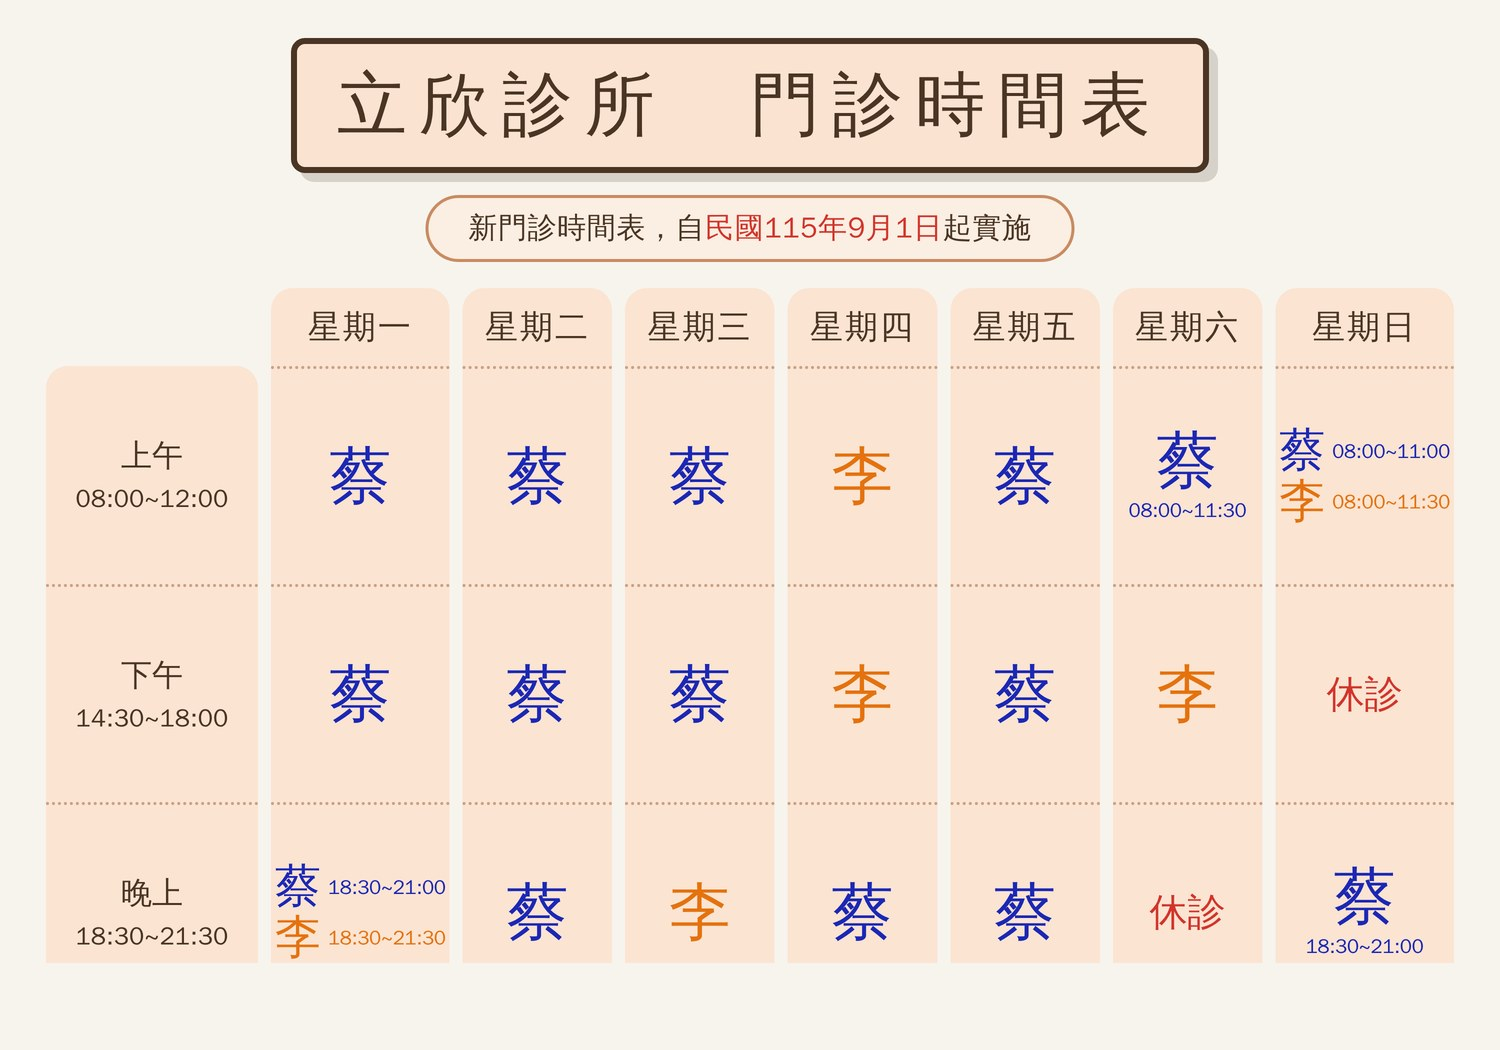
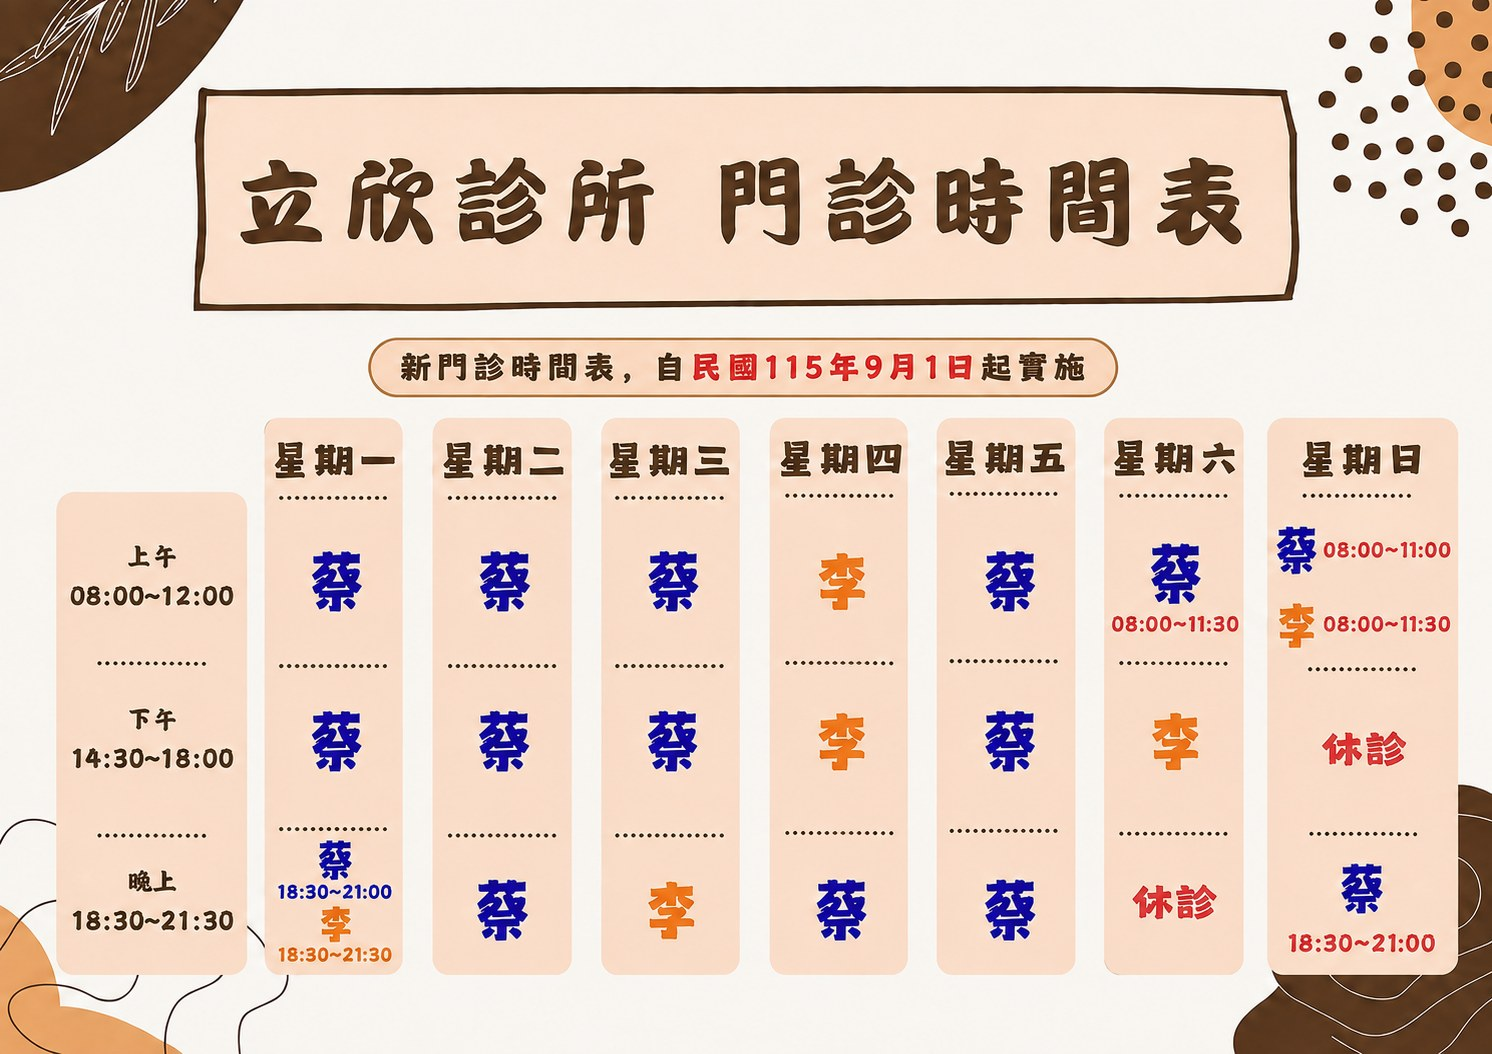
Use the original schedule poster instead of the rebuilt one
The uploaded artwork was on disk all along under /root/.claude/uploads/,
the path make_infographic.py already documents. Re-encode the 1492x1054
original to webp/jpg and drop the headless-Chromium rebuild.

Also correct the intrinsic size attributes on both <img> tags and record
in internal/00 where chat uploads land, so the next session does not
detour through Canva (design.canva.ai and media.canva.com are blocked by
the egress policy, and the matching design is not exportable).

Validator: 66 files, 0 errors / 0 warnings. sync_schedule.py --check exit 0.
Playwright at 390/1280px: 0px horizontal scroll.

Claude-Session: https://claude.ai/code/session_01LWpUgQvw2wjekoBVjTT1vt

diff --git a/index.html b/index.html
@@ -2386,7 +2386,7 @@
  <button type="button" id="clinic-notice-zoom" aria-label="放大檢視門診異動公告圖" class="block w-full rounded-3xl overflow-hidden shadow-md hover:shadow-lg border border-gray-100 hover:border-[#A8C69F] transition-all duration-300 bg-white" style="padding:0;cursor:zoom-in;">
  <picture>
  <source type="image/webp" srcset="/images/notice/clinic-notice-20260901.webp">
- <img src="/images/notice/clinic-notice-20260901.jpg" width="1500" height="1050" loading="lazy" decoding="async" alt="立欣診所新門診時間表，自民國115年9月1日起實施。上午08:00~12:00：星期一、二、三蔡醫師，星期四李醫師，星期五蔡醫師，星期六蔡醫師08:00~11:30，星期日蔡醫師08:00~11:00與李醫師08:00~11:30。下午14:30~18:00：星期一、二、三蔡醫師，星期四李醫師，星期五蔡醫師，星期六李醫師，星期日休診。晚上18:30~21:30：星期一蔡醫師18:30~21:00與李醫師18:30~21:30，星期二蔡醫師，星期三李醫師，星期四蔡醫師，星期五蔡醫師，星期六休診，星期日蔡醫師18:30~21:00。" class="w-full h-auto">
+ <img src="/images/notice/clinic-notice-20260901.jpg" width="1492" height="1054" loading="lazy" decoding="async" alt="立欣診所新門診時間表，自民國115年9月1日起實施。上午08:00~12:00：星期一、二、三蔡醫師，星期四李醫師，星期五蔡醫師，星期六蔡醫師08:00~11:30，星期日蔡醫師08:00~11:00與李醫師08:00~11:30。下午14:30~18:00：星期一、二、三蔡醫師，星期四李醫師，星期五蔡醫師，星期六李醫師，星期日休診。晚上18:30~21:30：星期一蔡醫師18:30~21:00與李醫師18:30~21:30，星期二蔡醫師，星期三李醫師，星期四蔡醫師，星期五蔡醫師，星期六休診，星期日蔡醫師18:30~21:00。" class="w-full h-auto">
  </picture>
  </button>
  <p class="text-xs text-gray-400 text-center mt-2 font-chinese">點擊圖片可放大檢視</p>
@@ -2404,7 +2404,7 @@
  <button type="button" id="notice-lightbox-close" aria-label="關閉放大檢視" style="position:absolute;top:-14px;right:-6px;width:40px;height:40px;border-radius:50%;background:#fff;color:#333;font-size:20px;font-weight:700;line-height:1;border:none;cursor:pointer;box-shadow:0 2px 8px rgba(0,0,0,.35);">✕</button>
  <picture>
  <source type="image/webp" srcset="/images/notice/clinic-notice-20260901.webp">
- <img src="/images/notice/clinic-notice-20260901.jpg" width="1500" height="1050" loading="lazy" decoding="async" alt="立欣診所新門診時間表放大圖：自民國115年9月1日起實施，週四下午改由李醫師看診、週五下午改由蔡醫師看診，週一晚診蔡醫師至21:00、李醫師至21:30，週日上午蔡醫師至11:00、李醫師至11:30" style="width:100%;height:auto;border-radius:16px;display:block;">
+ <img src="/images/notice/clinic-notice-20260901.jpg" width="1492" height="1054" loading="lazy" decoding="async" alt="立欣診所新門診時間表放大圖：自民國115年9月1日起實施，週四下午改由李醫師看診、週五下午改由蔡醫師看診，週一晚診蔡醫師至21:00、李醫師至21:30，週日上午蔡醫師至11:00、李醫師至11:30" style="width:100%;height:auto;border-radius:16px;display:block;">
  </picture>
  <div style="text-align:center;margin-top:14px;">
  <a href="https://line.me/R/ti/p/@lhpedclinic" target="_blank" rel="noopener" onclick="trackCTA('Notice_Lightbox_LINE')" class="btn-primary inline-block px-8 py-3 rounded-full font-chinese font-semibold">💬 LINE 諮詢立欣診所</a>

diff --git a/internal/00_專案總覽索引.md b/internal/00_專案總覽索引.md
@@ -23,10 +23,15 @@
 > 9/1 切換時 `sync-schedule.ts` 會**擋下**落在新班表外的預約並列名單（設計如此，勿為了讓指令過就加 `--cancel-affected`）。
 > 實際會被擋的只有兩類最後半小時：**週日早診 11:00–11:30 約蔡醫師**、**週一晚診 21:00–21:30 約蔡醫師**；
 > 另有週四／週五下午換醫師需通知家長（時段仍在，工具不會擋，**要靠櫃檯人工比對**）。
-> **⑥公告圖為 session 重製、非院長原檔**：`design.canva.ai` 遭代理政策擋（403），且院長 Canva 帳號最新設計停在 2026-06-27、無此張新表
-> → 沿 SOP §一.1「院長只給對話貼圖」先例，用 Chromium 無頭渲染 HTML 重製 1500×1050 橫式圖
-> （`images/notice/clinic-notice-20260901.webp`／`.jpg`，逐格資料與院長原圖一致；字型為容器內僅有的 WenQuanYi Zen Hei，
-> 故字體與院長原稿的手寫風標題不同）。**院長若有原檔，直接同檔名覆蓋即可，HTML 不必動。**
+> **⑥公告圖＝院長原檔**（`images/notice/clinic-notice-20260901.webp`／`.jpg`，1492×1054）。
+> **🔑 給未來 session 的關鍵發現：院長在對話上傳的圖，檔案就在 `/root/.claude/uploads/<session-id>/` 底下**
+> （`make_infographic.py` docstring 早就寫了這個路徑，本 session 起初漏看，白繞了一大圈）。
+> **繞的那一圈也記下來，免得下一棒重走**：Canva MCP 找得到同一張海報的設計（`DAHNz3kHDV8` 第 3／4 頁，
+> 班表資料與新表一致但**沒有「自民國115年9月1日起實施」那顆膠囊**＝較舊的修訂版），但
+> ①`design.canva.ai` 與 `media.canva.com` **都被代理政策擋（403 CONNECT）**、只有 `s3.amazonaws.com`（縮圖 fallback）通；
+> ②該設計非本帳號擁有，`export-design` 直接回 **Not allowed to access**（縮圖 URL 帶 `disableexport=T` 就是徵兆）。
+> **結論：要院長的原圖，先翻 `/root/.claude/uploads/`，不要從 Canva 繞。**
+> 曾以 Chromium 無頭渲染 HTML 重製過一版（1500×1050），院長 2026-08-12 指示「還是希望用原圖片」→ **已改用原檔，重製版作廢**。
 > **⑦版面**：公告區塊由 `max-w-md`（配 1000² 正方圖）改為 **`max-w-3xl`**（配橫式班表圖），
 > `max-w-3xl` 同頁已在用＝**零新 class、無 purge 風險**。
 > **⑧不進 llms**：本則 8/31 自動下架，屬時效資訊；門診時間本身未變，`llms` 雙檔本批零變更。9/1 切換那批再處理。
